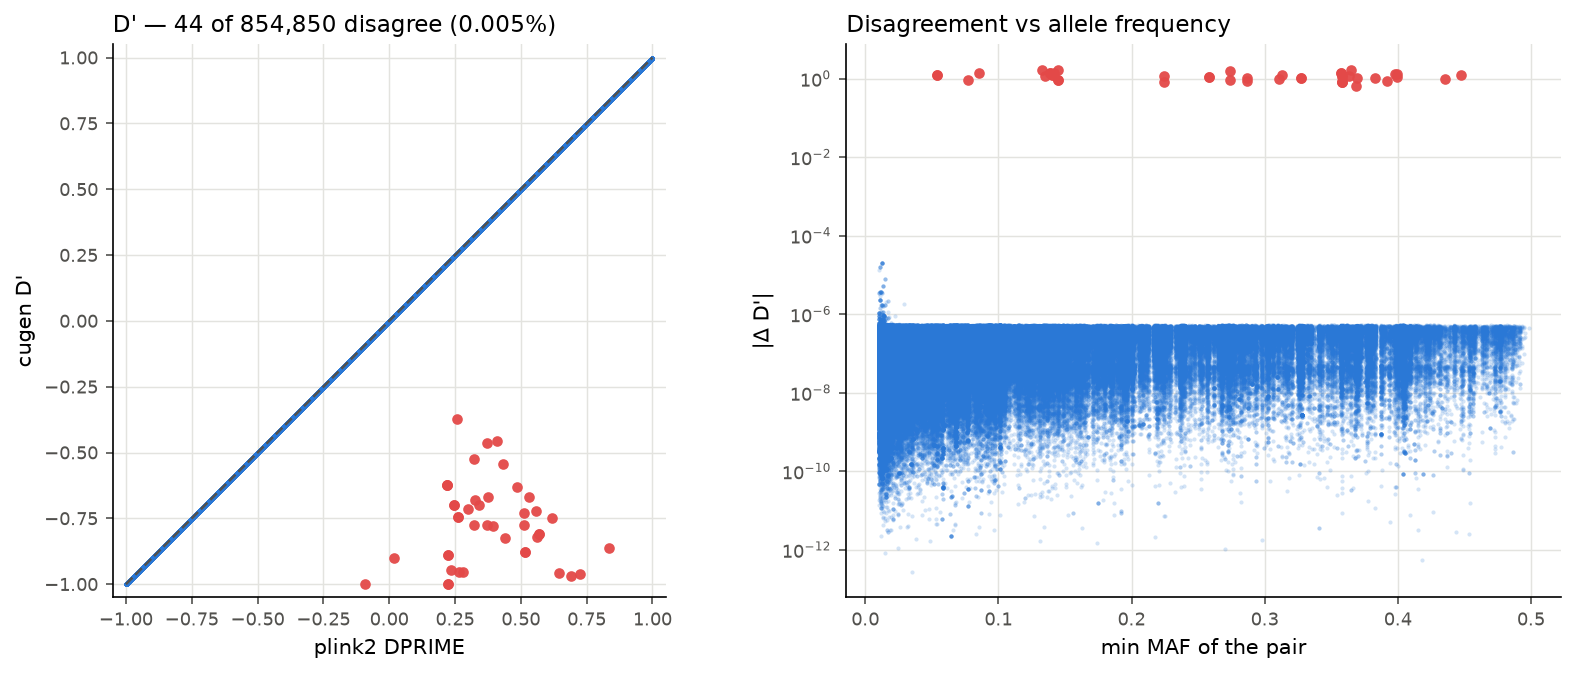
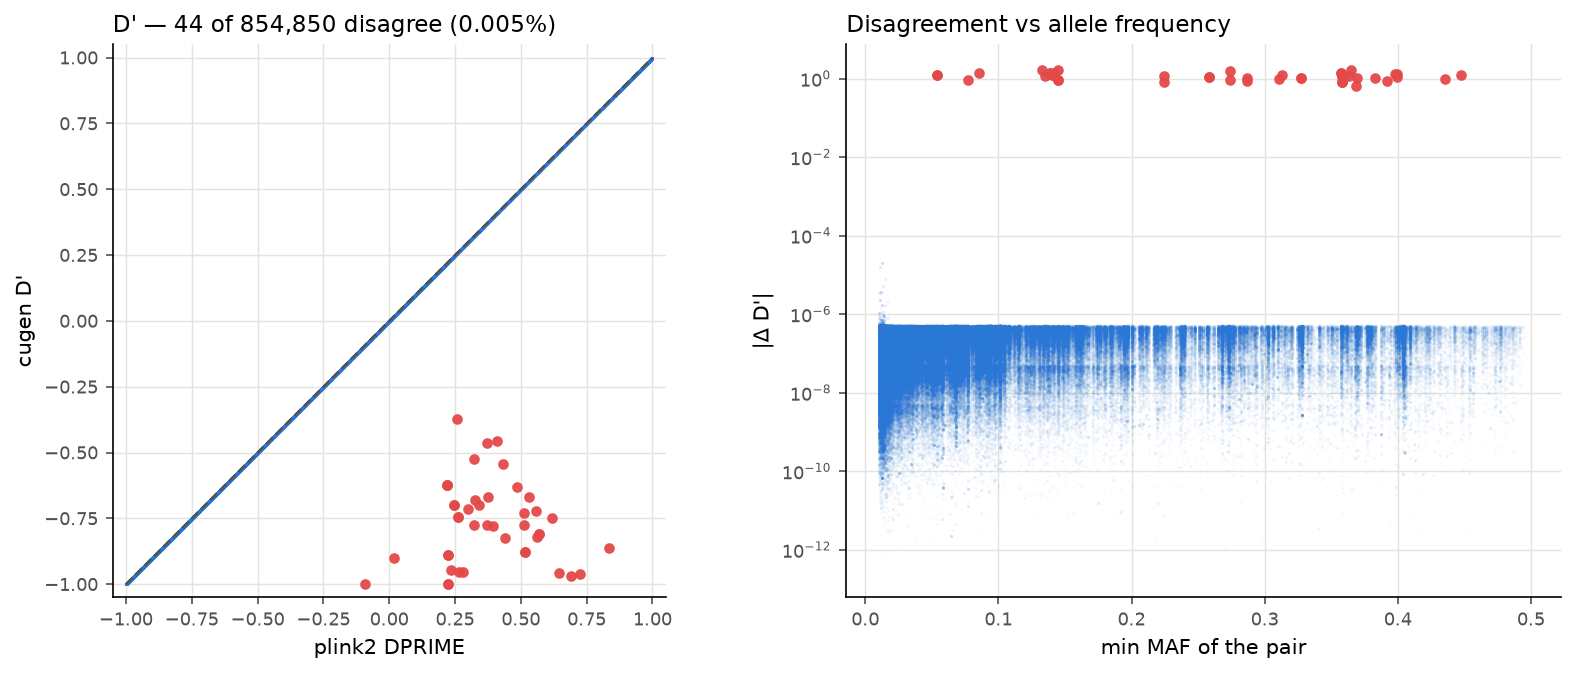
Make the concordance scatters show density, not a solid line
Alpha was 0.25 at ~850k points, which saturates: every panel read as a
filled line and hid where the mass actually is. Drop it to 0.02 with
smaller marks.

That alone is not enough. Agreement is exact enough that the whole
sample lands on a one-pixel identity line, so density perpendicular to
it is zero and no alpha can reveal structure. Add a residual row --
delta against value -- which rotates that line flat and gives the
y-axis back to the disagreement. It shows the r2 error funnel, the
banding in r, and the fp32 epsilon ceiling in |dD'| that the identity
view cannot express.

Changed region(s): [[0.5596, 0.4674, 0.9638, 0.7789], [0.5596, 0.4674, 0.5907, 0.4985]]

diff --git a/benchmarks/plot_concordance.py b/benchmarks/plot_concordance.py
@@ -8,7 +8,9 @@ Form notes:
   * Disagreeing points are drawn LAST, in a status colour, over a neutral
     mass. With ~850k points at ~0.005% disagreement, plotting in input order
     buries exactly the thing worth seeing.
-  * Hexbin would hide the tail here; the tail is the finding, so keep points.
+  * Hexbin would hide the tail here; the tail is the finding, so keep points --
+    but keep alpha low (0.02) so overlap reads as DENSITY rather than a solid
+    line. At ~850k points anything above ~0.05 saturates.
 """
 import os
 import sys
@@ -35,7 +37,13 @@ panels = [("r", "r_cugen", "r_plink", "plink2 --r-unphased"),
           ("D", "d_cugen", "d_plink", "plink2 --r-phased D"),
           ("D'", "dp_cugen", "dp_plink", "plink2 DPRIME")]
 
-fig, axes = plt.subplots(1, 4, figsize=(19, 5.2), facecolor="white")
+# Two rows. The identity scatter alone is degenerate here: agreement is exact
+# enough that every point lands on a one-pixel line, so density PERPENDICULAR
+# to it is zero and no alpha reveals structure. The residual row rotates that
+# line onto the x-axis and gives the y-axis back to the disagreement, which is
+# the quantity actually worth seeing.
+fig, allax = plt.subplots(2, 4, figsize=(19, 9.6), facecolor="white")
+axes = allax[0]
 for ax, (name, c1, c2, xlabel) in zip(axes, panels):
     x, y = df[c2].to_numpy(), df[c1].to_numpy()
     ok = np.isfinite(x) & np.isfinite(y)
@@ -46,7 +54,10 @@ for ax, (name, c1, c2, xlabel) in zip(axes, panels):
     pad = 0.04 * (hi - lo or 1)
     lo, hi = lo - pad, hi + pad
     ax.plot([lo, hi], [lo, hi], color=INK2, lw=1.2, ls="--", zorder=1)
-    ax.scatter(x[~bad], y[~bad], s=3, c=BLUE, alpha=0.25, linewidths=0,
+    # alpha must be LOW enough that overlap reads as density: at ~850k points
+    # anything above ~0.05 saturates to a solid line and hides where the mass
+    # actually concentrates. Small marks + low alpha is the pairing that works.
+    ax.scatter(x[~bad], y[~bad], s=2, c=BLUE, alpha=0.02, linewidths=0,
                zorder=2, rasterized=True)
     if bad.any():
         ax.scatter(x[bad], y[bad], s=16, c=RED, alpha=0.9, linewidths=0,
@@ -65,10 +76,36 @@ for ax, (name, c1, c2, xlabel) in zip(axes, panels):
         ax.spines[s].set_visible(False)
     ax.tick_params(colors=INK2, labelsize=8.5)
 
+# --- residual row: delta vs value, where density is visible ---------------
+for ax, (name, c1, c2, xlabel) in zip(allax[1], panels):
+    x, y = df[c2].to_numpy(), df[c1].to_numpy()
+    ok = np.isfinite(x) & np.isfinite(y)
+    x, y = x[ok], y[ok]
+    d = y - x
+    bad = np.abs(d) > TOL
+    ax.axhline(0.0, color=INK2, lw=1.2, ls="--", zorder=1)
+    ax.scatter(x[~bad], d[~bad], s=2, c=BLUE, alpha=0.02, linewidths=0,
+               zorder=2, rasterized=True)
+    if bad.any():
+        ax.scatter(x[bad], d[bad], s=18, c=RED, alpha=0.9, linewidths=0,
+                   zorder=3)
+    ax.set_xlabel(xlabel, fontsize=9.5, color=INK2)
+    ax.set_ylabel(f"cugen {name} − plink2", fontsize=9.5, color=INK2)
+    rms = float(np.sqrt((d ** 2).mean()))
+    ax.set_title(f"{name} residual   rms = {rms:.1e}", fontsize=11, color=INK,
+                 loc="left", pad=8)
+    ax.grid(color=GRID, linewidth=0.7)
+    ax.set_axisbelow(True)
+    for sp in ("top", "right"):
+        ax.spines[sp].set_visible(False)
+    ax.tick_params(colors=INK2, labelsize=8.5)
+
 n = int(np.isfinite(df["r_cugen"]).sum())
 fig.suptitle(
     f"cugen vs plink2 on 1000 Genomes chr22 — {n:,} matched variant pairs. "
-    f"Dashed line is identity; red marks |Δ| > {TOL:g}.",
+    f"Top: value vs value, dashed line is identity. Bottom: residual vs "
+    f"value — the same data with the identity line rotated flat, so the "
+    f"spread is legible. Red marks |Δ| > {TOL:g}.",
     fontsize=12.5, color=INK, x=0.005, ha="left", y=1.02)
 fig.tight_layout()
 fig.savefig(f"{OUT}/concordance.png", dpi=150, bbox_inches="tight",
@@ -79,8 +116,8 @@ print(f"wrote {OUT}/concordance.png")
 bad = (df["dp_cugen"] - df["dp_plink"]).abs() > TOL
 if bad.any():
     fig2, ax2 = plt.subplots(1, 2, figsize=(11, 4.6), facecolor="white")
-    ax2[0].scatter(df.loc[~bad, "dp_plink"], df.loc[~bad, "dp_cugen"], s=4,
-                   c=BLUE, alpha=0.2, linewidths=0, rasterized=True)
+    ax2[0].scatter(df.loc[~bad, "dp_plink"], df.loc[~bad, "dp_cugen"], s=2,
+                   c=BLUE, alpha=0.02, linewidths=0, rasterized=True)
     ax2[0].scatter(df.loc[bad, "dp_plink"], df.loc[bad, "dp_cugen"], s=26,
                    c=RED, alpha=0.95, linewidths=0)
     ax2[0].plot([-1, 1], [-1, 1], color=INK2, lw=1.2, ls="--")
@@ -92,7 +129,7 @@ if bad.any():
 
     mm = np.minimum(df["maf_a"], df["maf_b"])
     ax2[1].scatter(mm[~bad], (df["dp_cugen"] - df["dp_plink"]).abs()[~bad],
-                   s=4, c=BLUE, alpha=0.2, linewidths=0, rasterized=True)
+                   s=2, c=BLUE, alpha=0.03, linewidths=0, rasterized=True)
     ax2[1].scatter(mm[bad], (df["dp_cugen"] - df["dp_plink"]).abs()[bad],
                    s=26, c=RED, alpha=0.95, linewidths=0)
     ax2[1].set(xlabel="min MAF of the pair", ylabel="|Δ D'|", yscale="log")
